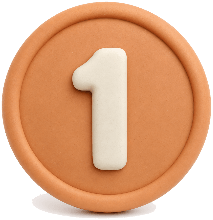
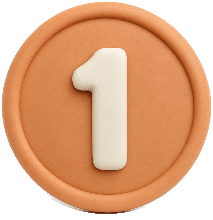
测试页角标统一钉在封面图标左上角+同步跳动动画；top1/3/4 奖牌底部接触影残留清理(拟合圆外与低饱和灰置透明,TinyPNG 回压,3 张合计省约 14KB)；移除 solo 落位变体，新增角标统一落位与动画契约测试

Changed region(s): [[0.1408, 0.8727, 0.7324, 1.0]]

diff --git a/miniapp/src/pages/test/index.test.ts b/miniapp/src/pages/test/index.test.ts
@@ -42,6 +42,29 @@ describe('测试首页软陶单列布局', () => {
     /* NEW/TOP 角标按条件渲染（表达式子节点），只断言类名存在于卡内 */
     expect(card.getText(page)).toContain('test-page__card-badge-new')
     expect(card.getText(page)).toContain('test-page__card-badge-top')
+    /* 角标位置统一钉在封面图标左上角，不再有 solo/堆叠两种落位 */
+    expect(source).not.toContain('badge-top--solo')
+    const medal = styleBlock('.test-page__card-badge-top')
+    const ribbon = styleBlock('.test-page__card-badge-new')
+    /* 奖牌盖住图标角点（卡内实体角约 (22,26)），NEW 缎带垫在奖牌后方沿图标顶边露出 */
+    expect(medal).toContain('position: absolute')
+    expect(medal).toContain('top: 20rpx')
+    expect(medal).toContain('left: 16rpx')
+    expect(medal).toContain('width: 60rpx')
+    expect(medal).toContain('height: 62rpx')
+    expect(medal).toContain('z-index: 2')
+    expect(ribbon).toContain('position: absolute')
+    expect(ribbon).toContain('top: 4rpx')
+    expect(ribbon).toContain('left: 56rpx')
+    expect(ribbon).toContain('width: 104rpx')
+    expect(ribbon).toContain('height: 42rpx')
+    expect(ribbon).toContain('z-index: 1')
+    for (const block of [medal, ribbon]) {
+      expect(block).toContain('right: auto')
+      expect(block).toContain('bottom: auto')
+      expect(block).toContain('animation: test-page-badge-bounce')
+    }
+    expect(styles).toContain('@keyframes test-page-badge-bounce')
     expect(childrenOf(card).map(className).filter(Boolean)).toEqual(['test-page__card-spot', 'test-page__card-content', 'test-page__card-go'])
     expect(card.getText(page).match(/onClick=/g)).toHaveLength(1)
     expect(card.getText(page)).toContain('openDetail(definition.id)')

diff --git a/miniapp/src/pages/test/index.scss b/miniapp/src/pages/test/index.scss
@@ -183,29 +183,49 @@
   position: relative;
 }
 
-/* 左上角贴纸角标（生图软陶件，绝对定位显式四边+显式宽高；top 留 10rpx 避开 30rpx 圆角裁切） */
+/* 左上角贴纸角标：统一钉在封面图标左上角（实体角约卡内 (22,26)）。
+   奖牌盖住角点（每卡同一坐标，不再区分 solo/堆叠）；NEW 缎带垫在奖牌后方，
+   文字沿图标顶边露出、不被奖牌圆弧遮挡（圆弧与文字 bbox 错开 ≥4rpx）。
+   显式四边+显式宽高；两枚同步跳动，贴纸堆不散 */
 .test-page__card-badge-new {
   position: absolute;
-  top: 10rpx;
+  top: 4rpx;
   right: auto;
   bottom: auto;
-  left: 10rpx;
+  left: 56rpx;
   width: 104rpx;
   height: 42rpx;
+  z-index: 1;
+  animation: test-page-badge-bounce 1.6s ease-in-out infinite;
 }
 
 .test-page__card-badge-top {
   position: absolute;
-  top: 56rpx;
+  top: 20rpx;
   right: auto;
   bottom: auto;
-  left: 10rpx;
+  left: 16rpx;
   width: 60rpx;
   height: 62rpx;
+  z-index: 2;
+  animation: test-page-badge-bounce 1.6s ease-in-out infinite;
 }
 
-.test-page__card-badge-top--solo {
-  top: 10rpx;
+/* 轻跳+小回弹 */
+@keyframes test-page-badge-bounce {
+  0%,
+  100% {
+    transform: translateY(0);
+  }
+  35% {
+    transform: translateY(-8rpx);
+  }
+  70% {
+    transform: translateY(0);
+  }
+  84% {
+    transform: translateY(-3rpx);
+  }
 }
 
 .test-page__card-spot {

diff --git a/miniapp/src/pages/test/index.tsx b/miniapp/src/pages/test/index.tsx
@@ -126,7 +126,7 @@ export default function TestPage() {
     return (
     <View key={definition.id} className="test-page__card" onClick={() => openDetail(definition.id)}>
       {showNew && <Image className="test-page__card-badge-new" src={badgeNewImg} />}
-      {hotRank ? <Image className={showNew ? 'test-page__card-badge-top' : 'test-page__card-badge-top test-page__card-badge-top--solo'} src={BADGE_TOP_BY_RANK[hotRank - 1]} /> : null}
+      {hotRank ? <Image className="test-page__card-badge-top" src={BADGE_TOP_BY_RANK[hotRank - 1]} /> : null}
       {/* 不挂 lazyLoad:分类切换大增删卡片时 lazy 图重触发解码,卡面先出文字后出图标,
           整列闪一下(实机录帧 f030→f031);22 张 tile 共 ~200KB,常驻解码缓存更稳 */}
       <Image className="test-page__card-spot" src={cardSpot(definition)} mode="aspectFit" />
